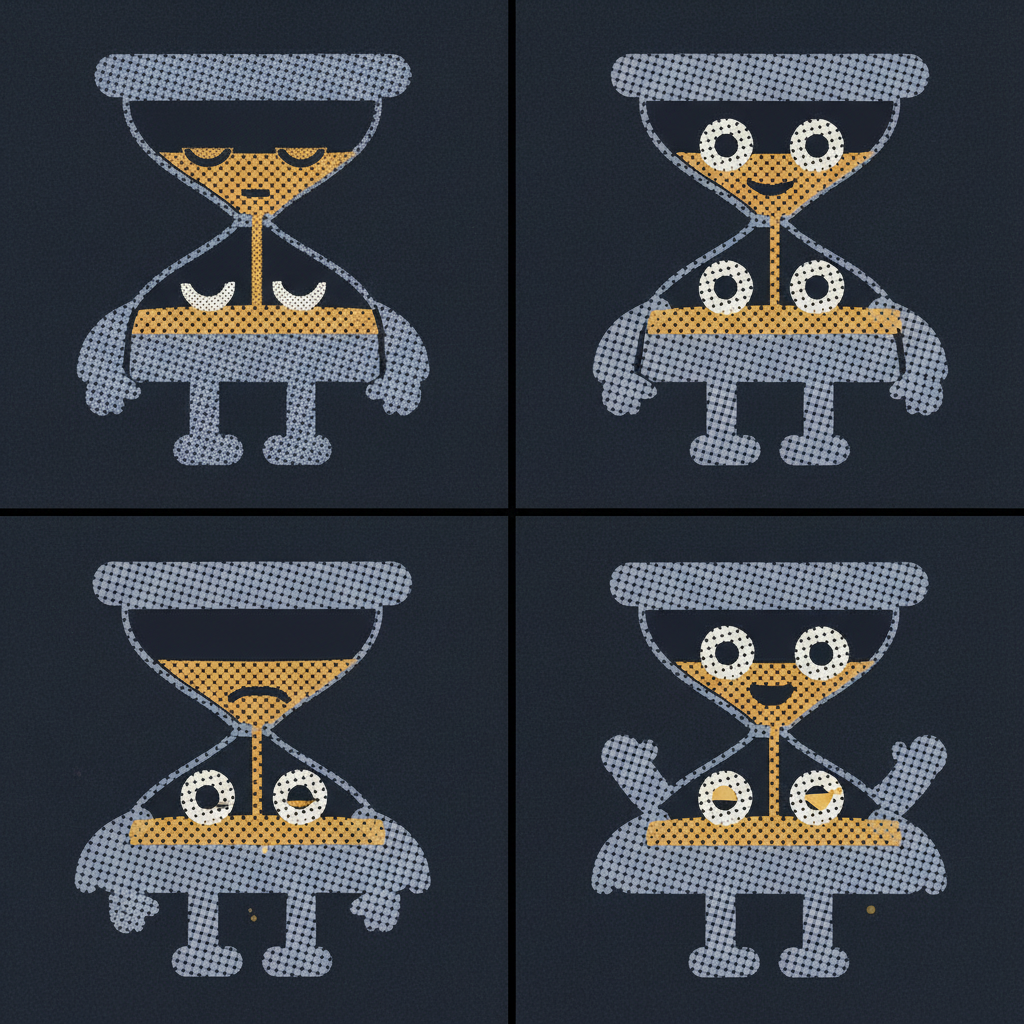
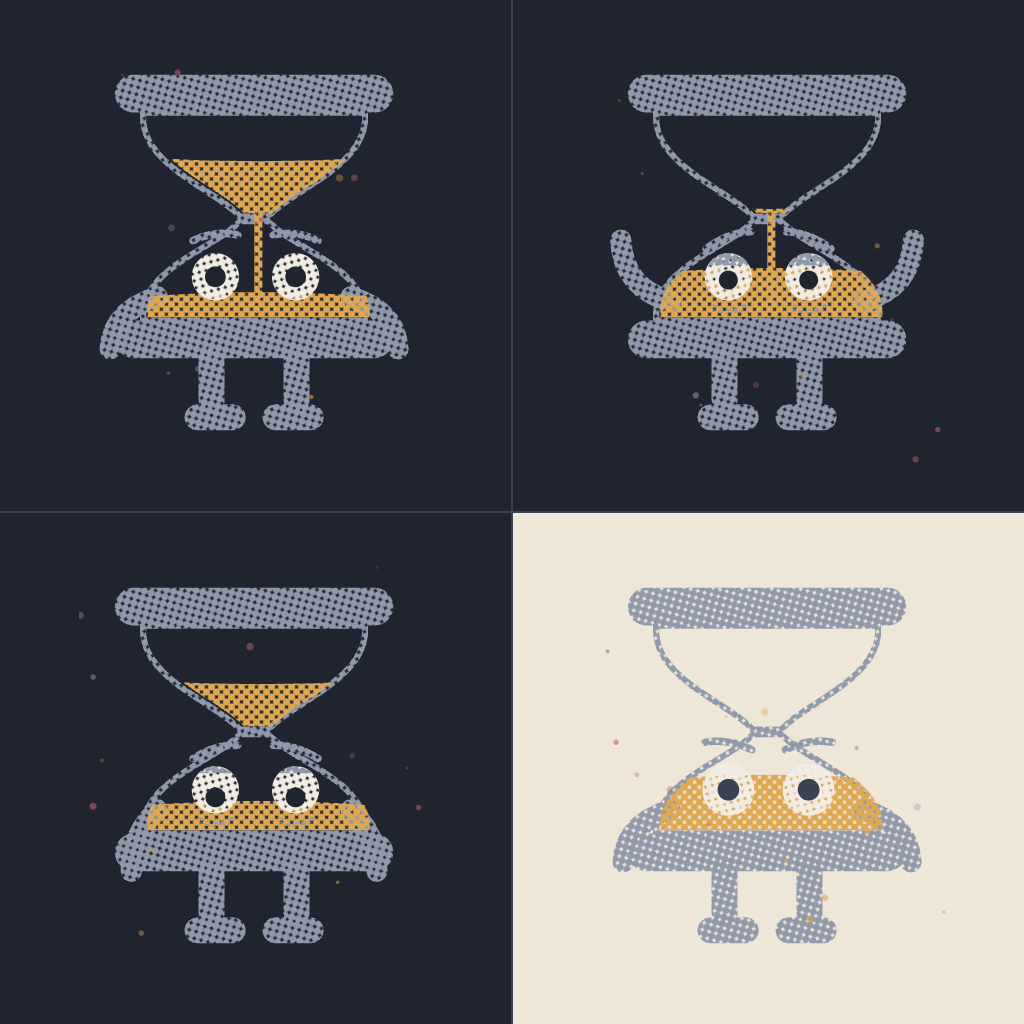
fix(mascot): build the empty states from SVG poses, not generation
The generated states sheet had four eyes in three of four panels — the model
duplicated the face into both bulbs. No prompt reliably holds one face per
character across a set, so this is not worth more spend.

- Adds a stalled pose: sand in both bulbs and nothing flowing, which is what a
  run that stopped emitting actually looks like.
- site/assets/mascot-states.png is now rendered from the SVG poses, consistent
  by construction.
- Generated raster stays for the big one-off illustrations only: hero, asking,
  dawn, 404 and the OG card.

diff --git a/site/mascot/concepts.html b/site/mascot/concepts.html
@@ -69,11 +69,12 @@ code{font-family:var(--mono);font-size:12.5px;color:var(--amber);background:#121
 
 <h2>Poses</h2>
 <p class="sub">Each one maps to something the daemon actually does. The eyes, lids and brows carry every expression — Tock has no mouth.</p>
-<div class="poses">
+<div class="poses" style="grid-template-columns:repeat(6,1fr)">
   <div class="pose"><img src="poses/idle.svg" alt="Tock idle"><div class="t">idle</div><div class="d">nothing is happening</div></div>
   <div class="pose"><img src="poses/alert.svg" alt="Tock alert"><div class="t">alert</div><div class="d">a run is live</div></div>
   <div class="pose"><img src="poses/asking.svg" alt="Tock asking at 03:07"><div class="t">03:07</div><div class="d">it stopped to ask you</div></div>
   <div class="pose"><img src="poses/done.svg" alt="Tock done at dawn on paper"><div class="t">dawn</div><div class="d">done — on paper stock</div></div>
+  <div class="pose"><img src="poses/stalled.svg" alt="Tock stalled"><div class="t">stalled</div><div class="d">stopped emitting; nothing flows</div></div>
   <div class="pose"><img src="poses/404.svg" alt="Tock lost, 404"><div class="t">404</div><div class="d">both bulbs empty</div></div>
 </div>
 
@@ -113,7 +114,7 @@ code{font-family:var(--mono);font-size:12.5px;color:var(--amber);background:#121
   <figure><img src="gen/notfound.png" alt="Tock empty and lost in a void"><figcaption><b>notfound</b> · 404</figcaption></figure>
   <figure><img src="gen/og-d.png" alt="Social card: Tock large right under an amber lamp"><figcaption><b>og-card</b> · shipped as site/assets/og-card.png, 1200×630</figcaption></figure>
   <figure><img src="gen/og-c.png" alt="Social card alternate: Tock right with terminal windows"><figcaption><b>og-card-alt</b> · alternate</figcaption></figure>
-  <figure><img src="gen/states-b.png" alt="Four empty states of Tock"><figcaption><b>states</b> · quiet / needs you / stalled / done</figcaption></figure>
+  <figure><img src="../assets/mascot-states.png" alt="Four empty states of Tock, rendered from the SVG poses"><figcaption><b>states</b> · quiet / needs you / stalled / done — <b style="color:#8892AB">rendered from the SVG poses, not generated</b></figcaption></figure>
   <figure><img src="gen/grid-hero.png" alt="Four hero composition explorations"><figcaption><b>grid-hero</b> · exploration</figcaption></figure>
 </div>
 

diff --git a/site/mascot/README.md b/site/mascot/README.md
@@ -19,6 +19,7 @@ three inks on a navy ground.**
 | `poses/alert.svg` | A run is live and he is watching it. |
 | `poses/asking.svg` | 03:07. A run stopped to ask you something. Heavy lids, under-eye bags. |
 | `poses/done.svg` | Dawn. Printed on cream paper stock instead of navy. |
+| `poses/stalled.svg` | A run stopped emitting. Sand sits in both bulbs and **nothing is flowing**. |
 | `poses/404.svg` | Both bulbs empty. Lost. |
 | `texture-halftone.svg` | A genuinely tileable 96×96 halftone paper texture for page backgrounds. |
 | `animations.html` | Live demo of every animated state. |
@@ -83,6 +84,11 @@ SVG** so the character stays on model — never prompted from scratch. Spend is 
 They are illustrations for the landing page and social card only. **The mark, the favicon and every
 pose stay hand-built SVG.** If a generated image and the SVG ever disagree, the SVG is right.
 
+**Do not generate UI states.** An attempt to produce the four empty states by generation gave three
+panels with *four eyes* — a face duplicated into both bulbs — because the model has no constraint
+keeping one face per character. Anything that must be consistent across a set is built from the
+poses, where consistency is structural. Generation is for the big one-off illustrations only.
+
 ## What the landing consumes: `site/assets/`
 
 The landing page imports these **fixed names**. They are copies — this directory
@@ -93,7 +99,7 @@ The landing page imports these **fixed names**. They are copies — this directo
 | `site/assets/mascot.svg` | **Self-animating.** Drop it in as `<img src>` and it bobs, blinks and pours on its own. |
 | `site/assets/logo.svg` | Mark + wordmark lockup |
 | `site/assets/favicon.svg` | Solid-ink mark for ≤32px |
-| `site/assets/poses/*.svg` | idle · alert · asking · done · 404 |
+| `site/assets/poses/*.svg` | idle · alert · asking · stalled · done · 404 |
 | `site/assets/texture-halftone.svg` | Tileable 96×96 page background |
 | `site/assets/og-card.png` | **1200×630** social card, headline space on the left |
 | `site/assets/og-card-alt.png` | Alternate social card |
@@ -102,7 +108,7 @@ The landing page imports these **fixed names**. They are copies — this directo
 | `site/assets/mascot-asking.png` | 03:07, the phone buzzing |
 | `site/assets/mascot-dawn.png` | Dawn, on cream paper |
 | `site/assets/mascot-404.png` | 404 |
-| `site/assets/mascot-states.png` | Four empty states in one sheet |
+| `site/assets/mascot-states.png` | Four empty states in one sheet — **rendered from the SVG poses**, not generated |
 
 `mascot.svg` carries its own `<style>` block, so the animation works **without any page CSS** and
 still honours `prefers-reduced-motion`. If you inline it instead, the same named groups are there

diff --git a/site/mascot/SPEND.md b/site/mascot/SPEND.md
@@ -39,7 +39,7 @@ Priced on 1MP output; higher resolutions cost proportionally more. All calls her
 
 | 14 | 2026-09-21 | nano-banana/edit | 1344×768 | 1 | 0.0398 | 0.0398 | 0.5572 | OG retake: Tock large right, clean headline space left (came back letterboxed; cropped to `og-card-alt.png`) | alt |
 | 15 | 2026-09-21 | nano-banana/edit | 1344×768 | 1 | 0.0398 | 0.0398 | 0.5970 | OG retake: Tock large right under an amber lamp, clean left half → **`site/assets/og-card.png` 1200×630** | yes — shipped |
-| 16 | 2026-09-21 | nano-banana/edit | 1024² | 1 | 0.0398 | 0.0398 | 0.6368 | Empty states retake, prompted for identical proportions across all four panels | yes — replaces grid-states |
+| 16 | 2026-09-21 | nano-banana/edit | 1024² | 1 | 0.0398 | 0.0398 | 0.6368 | Empty states retake, prompted for identical proportions across all four panels | **no — rejected, see below** |
 
 **Total: USD 0.6368 of 5.00.** 16 images kept, 1 call refused at no charge.
 Remaining before the 4.00 stop line: USD 3.3632.
@@ -49,3 +49,12 @@ Remaining before the 4.00 stop line: USD 3.3632.
 That asset is better built natively anyway: a generated texture does not tile, and
 `texture-halftone.svg` does, because the dot screen is an SVG `<pattern>` and the grain uses
 `stitchTiles="stitch"`.
+
+## Rejected: the generated empty states
+Both generated attempts at the four empty states were discarded. The retake (#16) came back with
+**four eyes in three of the four panels** — the model duplicated the face into both bulbs. Nothing
+in the prompt can reliably hold "one face per character" across a set.
+
+`site/assets/mascot-states.png` is now **rendered from the SVG poses**, which are consistent by
+construction, and a `stalled` pose was added to cover the fourth state. No further spend was made
+chasing it. Total stands at USD 0.6368.
